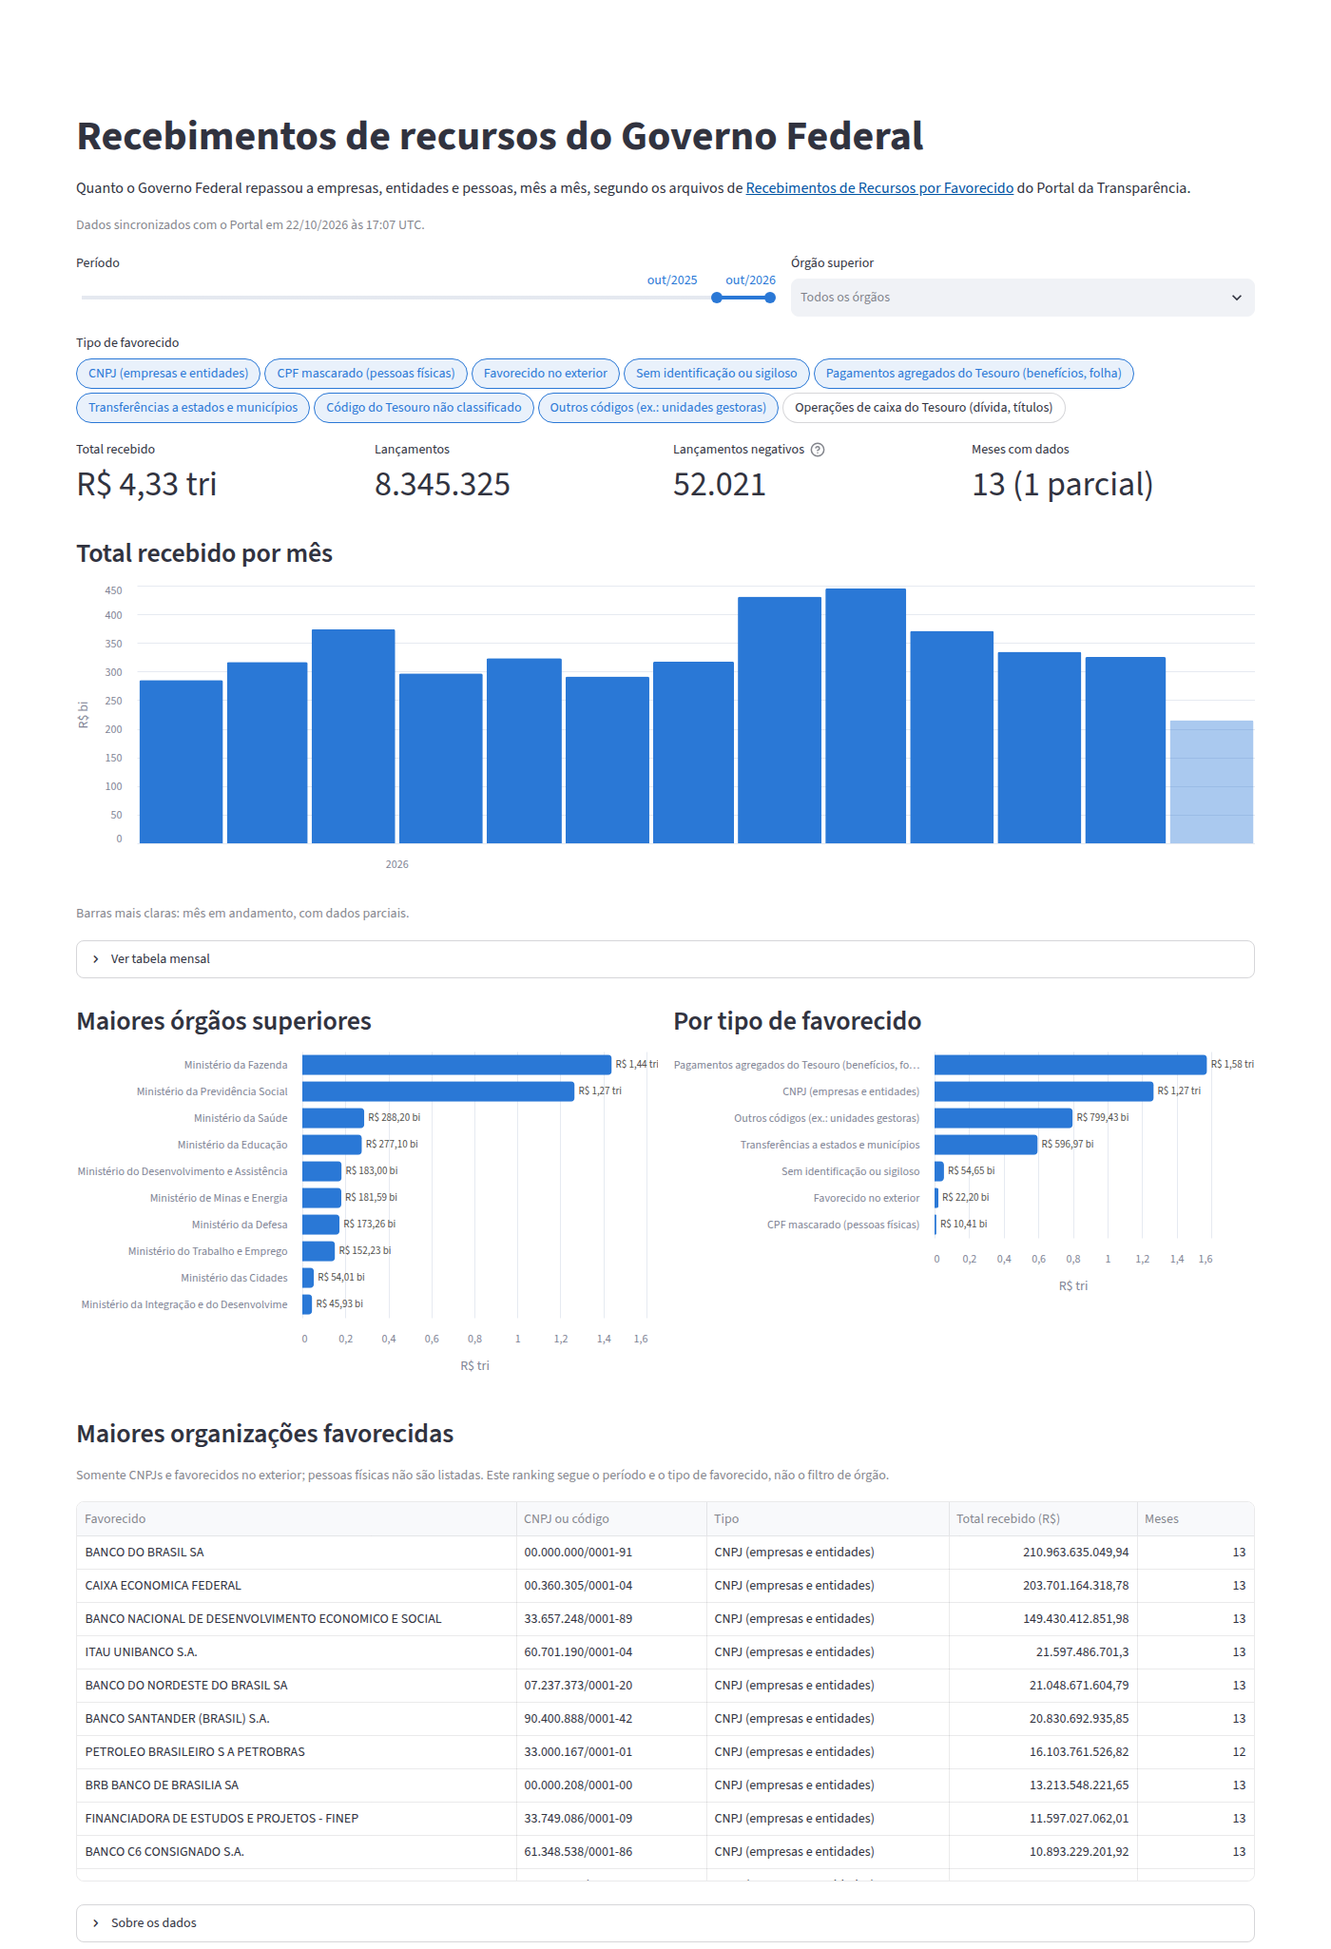
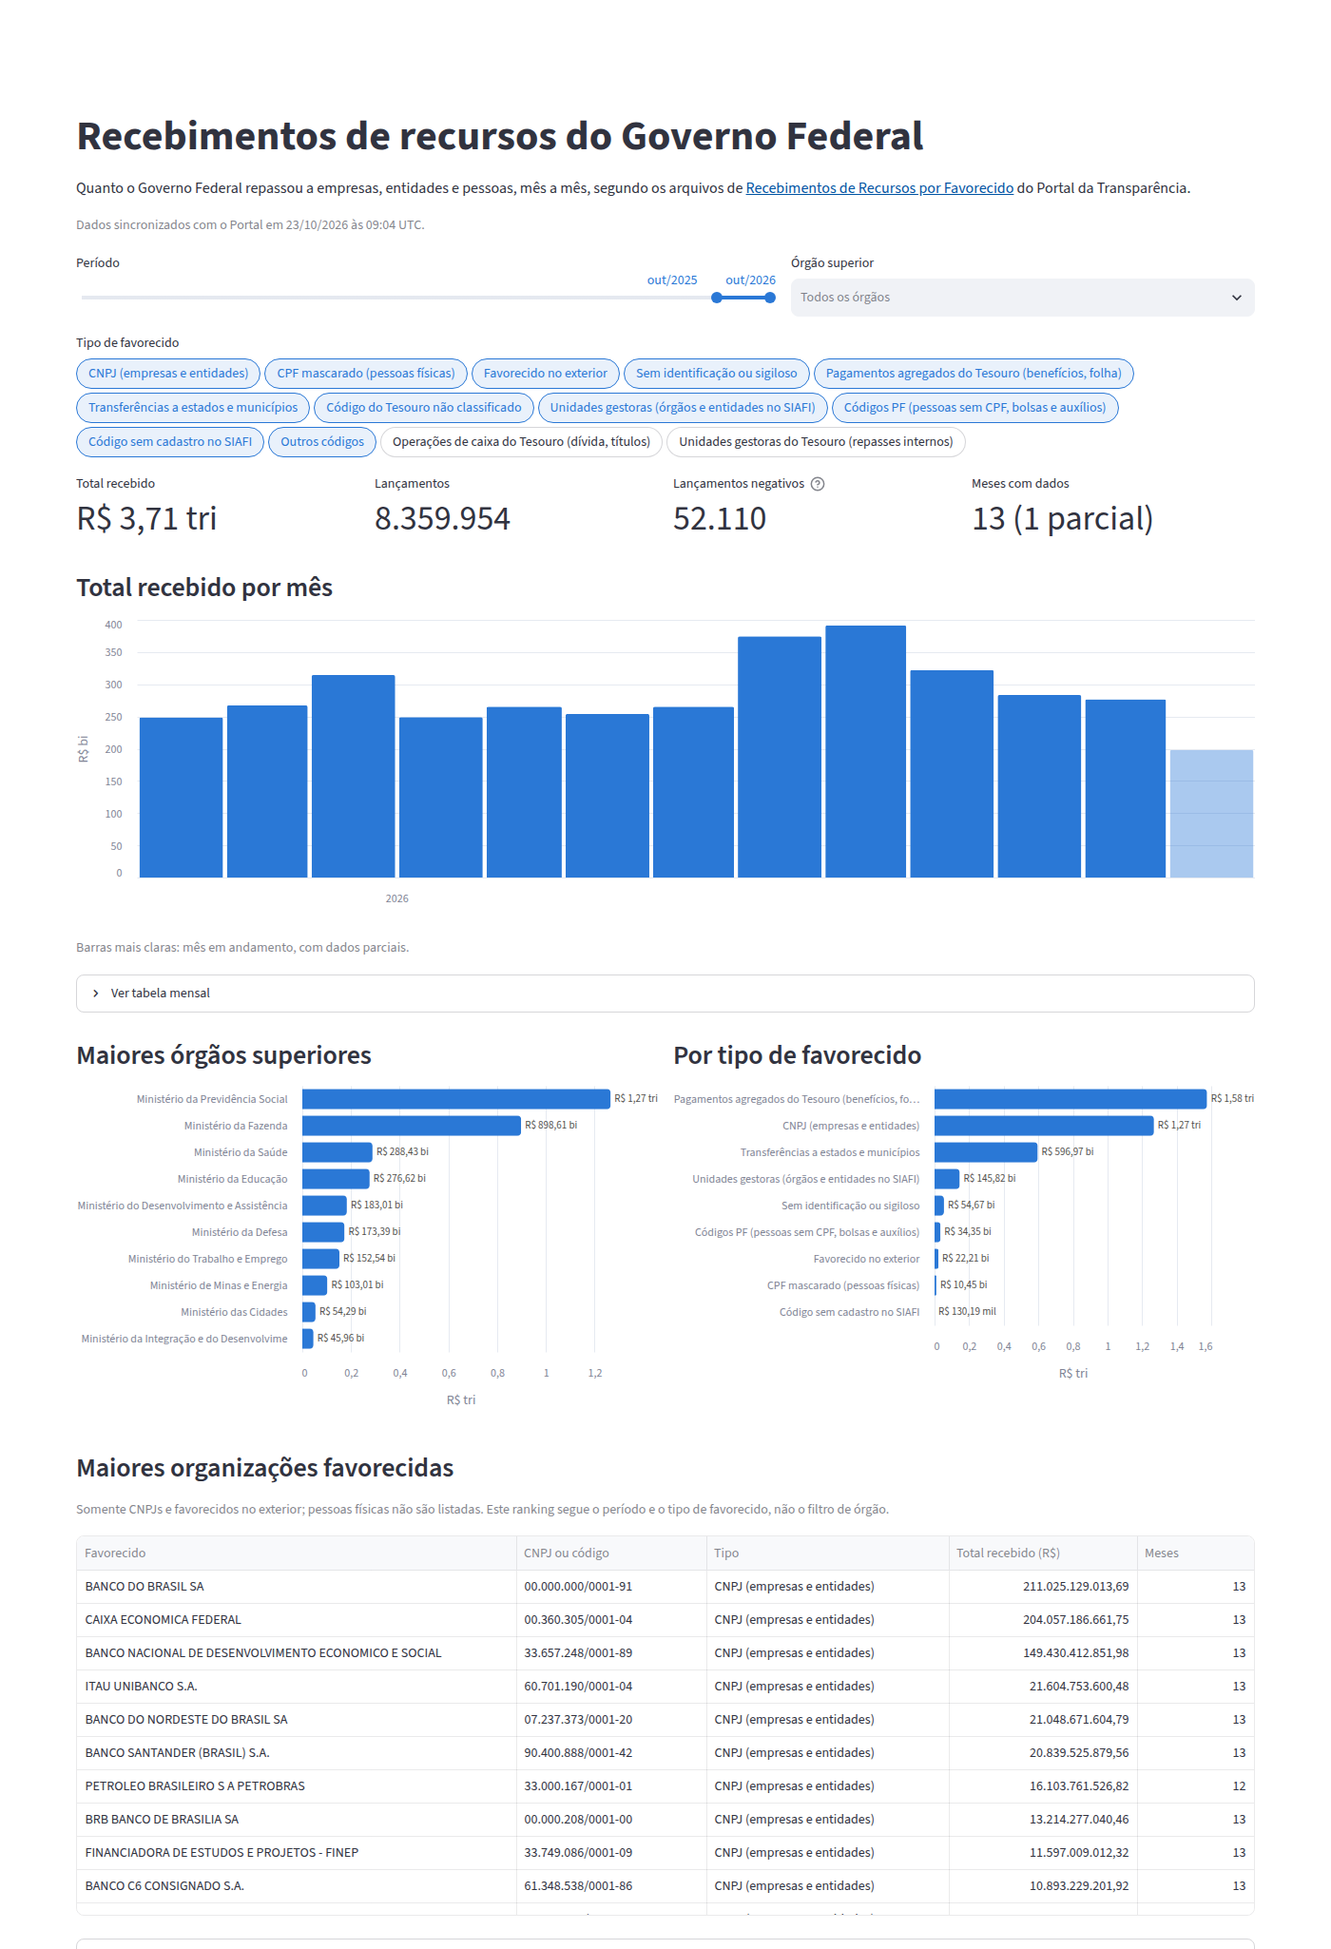
docs: document the new identifier kinds and the incremental build results

diff --git a/README.md b/README.md
@@ -25,29 +25,30 @@ What is real in the current pipeline:
 - every monthly archive the Portal publishes, `2013-12` through `2026-10`
   (`155` months), synced, checked against its CSV row count, and staged to
   one Parquet file per month
-- one dbt staging view, one intermediate table, and two mart tables over the
-  full history
-- `dbt build` runs end to end through the dbt CLI: `75` nodes (models, seeds,
-  and data tests), all passing, in two to three hours on a desktop with DuckDB
-  capped at 6 GB
+- one dbt staging view, one intermediate model, and two mart models over the
+  full history, built incrementally by month
+- `dbt build` runs end to end through the dbt CLI: `85` nodes (models, seeds,
+  and data tests), all passing; on a desktop with DuckDB capped at 6 GB a full
+  refresh takes about three and a half hours and a build with no changed
+  month about 15 minutes
 - a local Streamlit dashboard over the marts (see [Dashboard](#dashboard))
 
-Full-history facts (data synced on 2026-10-22; `2026-10` is still open):
+Full-history facts (data synced on 2026-10-23; `2026-10` is still open):
 
 | Fact | Value |
 | --- | ---: |
-| Source rows staged | `120078492` |
-| Mart rows at beneficiary-month grain | `103565566` |
-| Rows with a negative signed amount | `1935520` |
-| Distinct beneficiary IDs | `1674810` |
-| Masked CPFs with more than one name in the same month | `872795` |
+| Source rows staged | `120093295` |
+| Mart rows at beneficiary-month grain | `103576729` |
+| Rows with a negative signed amount | `1935627` |
+| Distinct beneficiary IDs | `1674906` |
+| Masked CPFs with more than one name in the same month | `872852` |
 | Net signed total, internal Treasury flows left out | R$ 27.64 trillion |
-| Net signed total, every identifier kind | R$ 14.47 trillion |
+| Net signed total, every identifier kind | R$ 14.46 trillion |
 
 The two totals differ because the Portal also publishes money that stays inside
 the Treasury. Treasury cash management (public debt service, bond issuance,
 Treasury and INSS transfers) appears under `RB` codes and nets
-R$ -18.39 trillion; payments to the Treasury's own management units, such as
+R$ -18.40 trillion; payments to the Treasury's own management units, such as
 the CGTES cash coordination, net R$ 5.22 trillion. The pipeline classifies both
 and leaves them out of the default totals (see [Treasury Codes](#treasury-codes)).
 
@@ -307,11 +308,11 @@ Finished running 1 seed, 2 table models, 43 data tests, 2 view models
 Done. PASS=48 WARN=0 ERROR=0 SKIP=0 NO-OP=0 REUSED=0 TOTAL=48
 ```
 
-`dbt build` result over the full history, `155` months (2026-10-23):
+`dbt build --full-refresh` result over the full history, `155` months (2026-10-23):
 
 ```text
-Finished running 2 seeds, 4 table models, 68 data tests, 1 view model in 2 hours 32 minutes and 55.10 seconds (9175.10s).
-Done. PASS=75 WARN=0 ERROR=0 SKIP=0 NO-OP=0 REUSED=0 TOTAL=75
+Finished running 3 incremental models, 3 seeds, 1 table model, 77 data tests, 1 view model in 3 hours 28 minutes and 1.86 seconds (12481.86s).
+Done. PASS=85 WARN=0 ERROR=0 SKIP=0 NO-OP=0 REUSED=0 TOTAL=85
 ```
 
 ## Intended Analytical Model
@@ -413,11 +414,11 @@ Geography remains flexible:
 - values such as `EX` are treated as valid source evidence, not data quality failures
 
 Negative amounts are preserved:
-- the full history contains `1935520` negative signed amount rows
+- the full history contains `1935627` negative signed amount rows
 - forcing a non-negative rule here would destroy observed source behavior
 
 `beneficiary_name` remains in the mart grain:
-- over the full history, `872795` beneficiary IDs map to more than one beneficiary name within a month
+- over the full history, `872852` beneficiary IDs map to more than one beneficiary name within a month
 - every one of them is a masked CPF, which the Portal publishes with only six digits visible
 - collapsing the mart to month + `beneficiary_id` would merge different people into one row
 
@@ -431,7 +432,7 @@ Negative amounts are not treated as noise in this repository.
 
 In the implemented `Recebimentos de Recursos por Favorecido` history:
 
-- `1935520` of `120078492` rows contain negative signed amounts, in every
+- `1935627` of `120093295` rows contain negative signed amounts, in every
   year of the history
 - netted per beneficiary and month, almost all of the negative value sits
   under Treasury cash operations (`treasury_operation`): about
@@ -466,7 +467,7 @@ because the real data shows that `beneficiary_id` alone is not stable enough
 for a beneficiary-level mart. In the implemented file, multiple names can
 appear under the same beneficiary ID.
 
-The cause is confirmed over the full history: all `872795` IDs with more than
+The cause is confirmed over the full history: all `872852` IDs with more than
 one name within a month are masked CPFs such as `***.123.456-**`. The Portal
 hides the first three and last two digits of individual taxpayers' CPFs, so
 different people can share one masked value. No CNPJ (14-digit) identifier has
@@ -482,26 +483,43 @@ collisions. The mart grain is per month, so those renames never split a row.
 
 `beneficiary_identifier_kind` is derived in the dbt staging model from the
 shape of `beneficiary_id`, plus two reviewed seeds, `treasury_bank_codes` for
-`RB` codes and `treasury_management_units` for Treasury management units, and carried through the intermediate and mart layers. It does not
+`RB` codes and `treasury_management_units` for Treasury management units,
+and carried through the intermediate and mart layers. It does not
 change any grain, because it depends only on `beneficiary_id`. Counts below
 cover the full history, `2013-12` to `2026-10`:
 
 | Kind | Rule | Rows | Distinct IDs | Multi-name IDs within a month | IDs renamed across months | Net (R$ trillion) |
 | --- | --- | ---: | ---: | ---: | ---: | ---: |
-| `cpf_masked` | `***.NNN.NNN-**` | 90642629 | 998529 | 872795 | 990094 | 0.12 |
-| `cnpj` | 14 digits | 28307915 | 600420 | 0 | 4186 | 9.06 |
-| `foreign_code` | `EX` + 7 characters | 478795 | 67236 | 0 | 110 | 0.24 |
-| `placeholder` | negative codes: `-1` and `-8` SEM INFORMACAO, `-9` NAO SE APLICA, `-11` Sigiloso, `-13` FOLHA DE PAGAMENTO | 236024 | 5 | 0 | 0 | 0.31 |
-| `treasury_payment` | `RB` + 7 digits, classified in the seed as a payment leaving the government | 26302 | 26 | 0 | 0 | 12.01 |
-| `treasury_operation` | `RB` + 7 digits, classified in the seed as Treasury cash management | 5931 | 18 | 0 | 0 | -18.39 |
-| `treasury_unclassified` | `RB` + 7 digits missing from the seed | 0 | 0 | 0 | 0 | 0 |
+| `cpf_masked` | `***.NNN.NNN-**` | 90653083 | 998531 | 872852 | 990102 | 0.12 |
+| `cnpj` | 14 digits | 28312085 | 600504 | 0 | 4186 | 9.06 |
+| `foreign_code` | `EX` + 7 characters | 478908 | 67246 | 0 | 111 | 0.24 |
+| `management_unit` | other 6-digit SIAFI management unit codes | 356937 | 3905 | 0 | 152 | 1.50 |
+| `placeholder` | negative codes: `-1` and `-8` SEM INFORMACAO, `-9` NAO SE APLICA, `-11` Sigiloso, `-13` FOLHA DE PAGAMENTO | 236050 | 5 | 0 | 0 | 0.31 |
+| `treasury_payment` | `RB` + 7 digits, classified in the seed as a payment leaving the government | 26305 | 26 | 0 | 0 | 12.01 |
+| `pf_code` | `PF` or `PS` + 7 characters: people published without a CPF, aggregate grants, and grant reversals | 9725 | 2670 | 0 | 15 | 0.04 |
+| `unregistered_code` | 10 to 12 digits, published only as SEM INFORMACAO or CODIGO INEXISTENTE NO SIAFI | 9218 | 1970 | 0 | 0 | 0.00 |
+| `treasury_operation` | `RB` + 7 digits, classified in the seed as Treasury cash management | 5931 | 18 | 0 | 0 | -18.40 |
+| `treasury_management_unit` | 6-digit Treasury management unit listed in the seed | 2667 | 8 | 0 | 0 | 5.22 |
 | `intergovernmental_transfer` | `TN` + 7 digits | 2386 | 23 | 0 | 0 | 4.35 |
-| `treasury_management_unit` | 6-digit Treasury management unit listed in the seed | 2664 | 8 | 0 | 0 | 5.22 |
-| `other_code` | anything else: mostly 6-digit management unit codes, plus `PF` program codes | 375846 | 8545 | 0 | 167 | 1.55 |
+| `treasury_unclassified` | `RB` + 7 digits missing from the seed | 0 | 0 | 0 | 0 | 0 |
+| `other_code` | any other shape; the dbt test `assert_beneficiary_ids_have_a_known_shape` warns with each one | 0 | 0 | 0 | 0 | 0 |
 
 `placeholder` IDs are not beneficiaries; they label rows where the beneficiary
 is unknown, not applicable, confidential, or a payroll aggregate. Exclude them
 from beneficiary rankings. `-8` appears in only `8` months of the history.
+
+The other codes follow the source's own conventions:
+
+- `management_unit` codes are federal management units receiving money from
+  other units, such as universities, hospitals, and regional offices. They are
+  transfers inside the government, but each one is a real spending unit, so
+  the dashboard keeps them in its default totals.
+- `pf_code` codes stand for people published without a CPF and for grants
+  paid in aggregate (scholarships, student aid). None is located abroad. The
+  `6` `PS` codes hold only reversals of the same grants, R$ -6858 in all.
+- `unregistered_code` codes are never named: `1855` carry SEM INFORMACAO
+  (R$ 32.55 million) and `115` carry CODIGO INEXISTENTE NO SIAFI
+  (R$ 0.66 million).
 
 ## Treasury Codes
 
@@ -531,7 +549,7 @@ beneficiary. They are few rows and most of the money:
   (R$ 2.92 trillion), by the STN itself (R$ 0.75 trillion), and by the ANP
   and other Minas e Energia units (R$ 0.61 trillion); `170600` COORD.GERAL DE
   CONTROLE DA DIVIDA PUBLICA nets R$ 0.79 trillion, almost all paid by itself.
-  Other federal management units stay in `other_code`.
+  Other federal management units are `management_unit`.
 
 An `RB` code missing from the seed is staged as `treasury_unclassified`, and
 the dbt test `assert_treasury_bank_codes_are_classified` warns with its code and
@@ -550,18 +568,18 @@ passes over the full history.
 Observations from the full synced history, `2013-12` to `2026-10`:
 
 - **Flows inside the Treasury hide the totals.** The net signed total over
-  every identifier kind is R$ 14.47 trillion. Leaving out the `18` Treasury
-  cash-operation codes, `5931` rows that net R$ -18.39 trillion, moves it to
+  every identifier kind is R$ 14.46 trillion. Leaving out the `18` Treasury
+  cash-operation codes, `5931` rows that net R$ -18.40 trillion, moves it to
   R$ 32.86 trillion; bond issuance and redemptions of Treasury investments are
   published as negative receipts. Leaving out the `8` Treasury management
-  units too, `2664` rows that net R$ 5.22 trillion, brings it to
+  units too, `2667` rows that net R$ 5.22 trillion, brings it to
   R$ 27.64 trillion.
 - **A handful of codes carry the money.** The `26` Treasury payment codes and
-  `23` `TN` codes, `28688` rows out of 120 million, net R$ 16.36 trillion:
+  `23` `TN` codes, `28691` rows out of 120 million, net R$ 16.36 trillion:
   INSS benefits, payroll, Bolsa Familia, and transfers to states and
   municipalities. Named CNPJ beneficiaries net R$ 9.06 trillion.
 - **Beneficiary identity is unstable only for individuals.** Within a month,
-  `872795` masked CPFs carry more than one name, and no other identifier kind
+  `872852` masked CPFs carry more than one name, and no other identifier kind
   carries any. Across months, `4186` CNPJs change name, which matches company
   renames, not collisions.
 - **Volume is steady, value grows.** Every full year stages 8.2 to 10.4
@@ -576,13 +594,13 @@ Observations from the full synced history, `2013-12` to `2026-10`:
   the sentinel superior body `-1` and body `-3` with an empty body name,
   together R$ 1.61 billion. Staging accepts an empty name only behind a
   sentinel code.
-- **Placeholders are material.** The five placeholder IDs hold `236024` rows
+- **Placeholders are material.** The five placeholder IDs hold `236050` rows
   and R$ 312 billion net; `-1` SEM INFORMACAO alone nets R$ 160 billion.
-- **Negative amounts are routine.** `1935520` rows are negative, in every year.
+- **Negative amounts are routine.** `1935627` rows are negative, in every year.
 
 These findings describe what the source contains. They do not interpret the
 budget behind it. Even without the internal Treasury flows, the totals still
-include transfers between other federal management units under `other_code`
+include transfers between other federal management units under `management_unit`
 (see [Limitations And Future Work](#limitations-and-future-work)).
 
 Rows and net totals by year (2013 holds only December, 2026 ends at the open
@@ -603,7 +621,7 @@ month of October):
 | 2023 | 12 | 9844439 | 2621.6 | 1448.3 | 165732 |
 | 2024 | 12 | 9237291 | 2920.0 | 1952.5 | 78602 |
 | 2025 | 12 | 8228227 | 3172.7 | 2014.3 | 54402 |
-| 2026 | 10 | 5977818 | 2880.1 | 1626.9 | 33977 |
+| 2026 | 10 | 5992621 | 2879.6 | 1614.7 | 34084 |
 
 ## Analytical Examples
 
@@ -849,7 +867,7 @@ What remains provisional:
 > pipeline test. Treat their behavior as provisional.
 
 > Known risk: this path rejects negative `amount_brl` values. The implemented
-> recebimentos source contains real negative amounts (`1935520` rows), so a real
+> recebimentos source contains real negative amounts (`1935627` rows), so a real
 > `Despesas` file with reversals may fail staging. Revisit that rule with a real
 > profile before relying on this path.
 
@@ -1215,8 +1233,9 @@ tests/fixtures/recebimentos_sample/202601_RecebimentosRecursosPorFavorecido.csv
 ```
 
 It keeps the official format (latin-1, semicolon delimiter, quoted fields,
-CRLF line endings, `MM/YYYY` months, Brazilian decimals) and covers every
-beneficiary identifier kind, negative amounts, an `EX` / exterior beneficiary,
+CRLF line endings, `MM/YYYY` months, Brazilian decimals) and covers the
+identifier kinds found in the source except `treasury_payment` and
+`intergovernmental_transfer`, negative amounts, an `EX` / exterior beneficiary,
 and one masked-CPF name collision. Beneficiary names and identifiers are
 fictitious. It is pinned by its own manifest, `tests/fixtures/source_manifest.toml`,
 and regenerated with `tests/fixtures/make_recebimentos_sample.py`.
@@ -1241,15 +1260,16 @@ Current limitations are explicit:
   the case study numbers and the dashboard screenshots cover the full history
 - `sync-recebimentos --all` stops when the Portal's WAF challenges the machine,
   so a first full sync may need more than one run
-- a full `dbt build --full-refresh` takes two to three hours and spills to disk
-  under the 6 GB DuckDB cap; daily builds are incremental, but the data tests
-  still scan the full history
+- a full `dbt build --full-refresh` takes about three and a half hours and
+  spills to disk under the 6 GB DuckDB cap; daily builds are incremental, but
+  the data tests still scan the full history, so a build with no changed month
+  still takes about 15 minutes
 - the `RB` classification is read from the published code names and reviewed
   by hand; new codes need the same review when the dbt test warns
 - the Treasury management units are a reviewed list of `8` STN units; leaving
   them and the cash operations out does not remove every transfer inside the
-  government, because `other_code` still holds other federal management units
-  (R$ 1.55 trillion net)
+  government, because the other federal management units (`management_unit`,
+  R$ 1.50 trillion net) stay in the default totals
 - the dbt CLI does not run on Python 3.14 (upstream import error in `dbt-duckdb`), so the project is pinned to Python 3.11-3.13
 - `beneficiary_id` is not yet a reliable beneficiary master key
 - beneficiary type classification is intentionally deferred
@@ -1258,9 +1278,9 @@ Current limitations are explicit:
 
 Reasonable next steps, without changing the project character:
 
-- separate the other federal management units in `other_code` that receive
-  transfers inside the government
-- over the full history, `4463` CNPJ, foreign, and other-code IDs change name
+- review which `management_unit` flows are transfers inside the government
+  (for example, by matching the paying and the receiving unit)
+- over the full history, `4449` CNPJ, foreign, and management-unit IDs change name
   across months and none within a month; a name history per CNPJ could
   support a reference layer
 - decide whether a separate beneficiary reference layer is justified by repeated evidence

diff --git a/docs/source_catalog.md b/docs/source_catalog.md
@@ -138,7 +138,7 @@ Confirmed first mart layer:
 - Grain: one row per `launch_month_key`, `beneficiary_id`, and `beneficiary_name`
 - Measures: `total_amount_received_brl`, `total_record_count`, and `negative_amount_record_count`
 - `beneficiary_name` remains in the mart grain because the real data shows multiple names under the same `beneficiary_id`; all `13426` such IDs are masked CPFs
-- `beneficiary_identifier_kind` classifies IDs as `cnpj`, `cpf_masked`, `foreign_code`, `placeholder`, `treasury_payment`, `treasury_operation`, `treasury_unclassified`, `intergovernmental_transfer`, `treasury_management_unit`, or `other_code` (see the README section Beneficiary Identifier Kinds)
+- `beneficiary_identifier_kind` classifies IDs as `cnpj`, `cpf_masked`, `foreign_code`, `placeholder`, `treasury_payment`, `treasury_operation`, `treasury_unclassified`, `intergovernmental_transfer`, `treasury_management_unit`, `management_unit`, `pf_code`, `unregistered_code`, or `other_code` (see the README section Beneficiary Identifier Kinds)
 - Organizational and geographic attributes remain available in the intermediate layer instead of being forced into the first mart grain
 
 ## MVP Candidate Dataset 1

diff --git a/docs/architecture.md b/docs/architecture.md
@@ -209,6 +209,7 @@ Identifier kinds and Treasury codes:
 - `beneficiary_identifier_kind` is set in staging from the shape of `beneficiary_id`; `RB` codes are looked up in the reviewed seed `treasury_bank_codes` and become `treasury_operation` (cash management inside the government) or `treasury_payment` (aggregated payments such as INSS benefits and payroll); `TN` codes become `intergovernmental_transfer`
 - An `RB` code missing from the seed is staged as `treasury_unclassified`, and `assert_treasury_bank_codes_are_classified` warns with its code and name
 - Six-digit codes listed in the reviewed seed `treasury_management_units` (the CGTES cash coordination, public debt control and other Secretaria do Tesouro Nacional units) become `treasury_management_unit`
+- Other six-digit codes become `management_unit`; `PF` and `PS` codes become `pf_code`; 10 to 12 digit codes published as SEM INFORMACAO or CODIGO INEXISTENTE NO SIAFI become `unregistered_code`; anything else stays `other_code`, and the warn test `assert_beneficiary_ids_have_a_known_shape` lists it
 - The dashboard leaves `treasury_operation` and `treasury_management_unit` out of its totals by default
 
 ## Intended Flow
